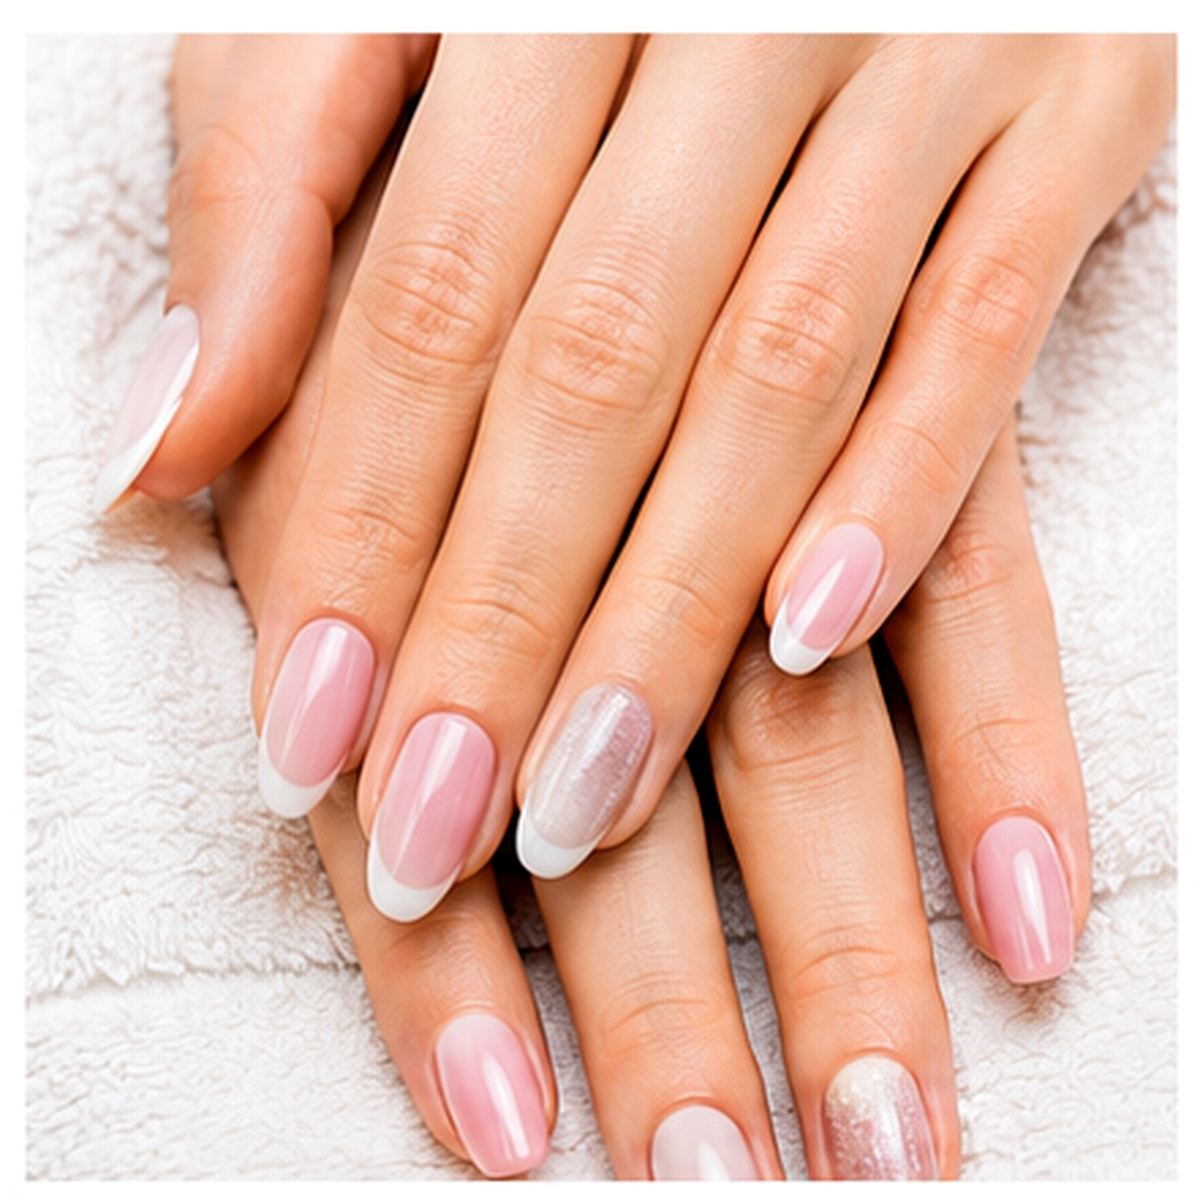
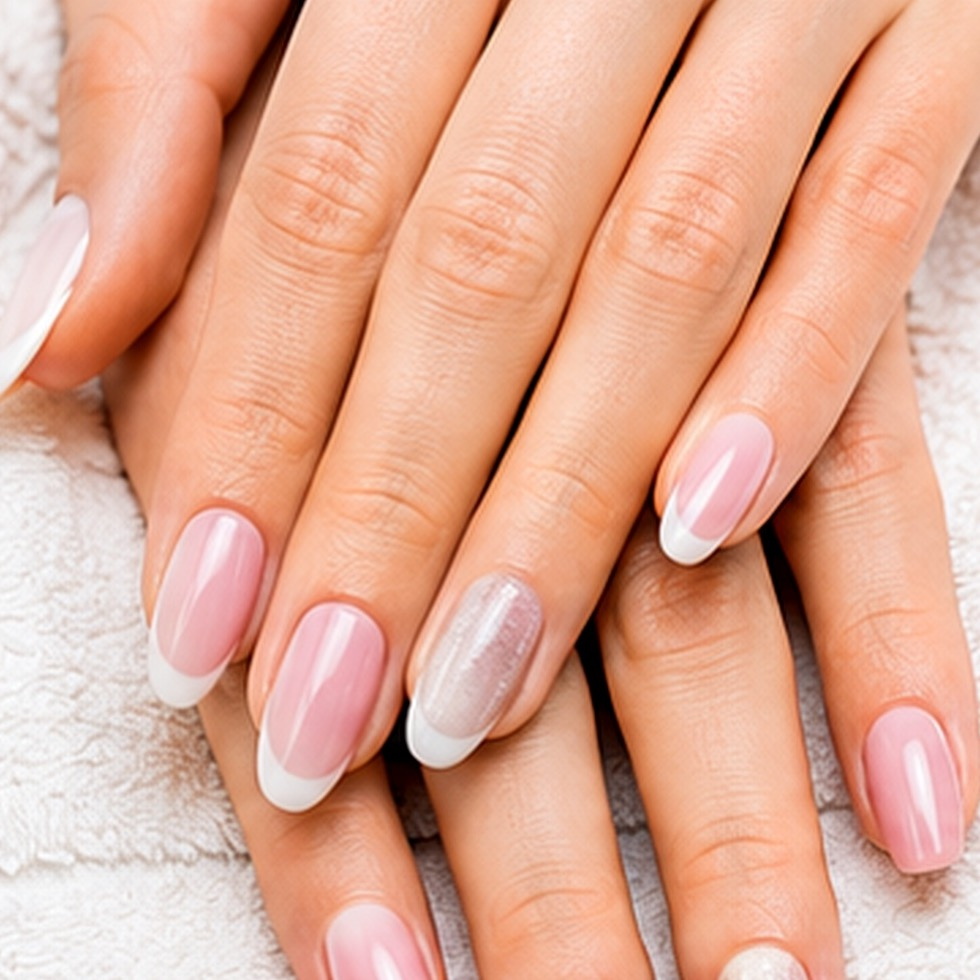
Fix price list image sizing

diff --git a/css/style.css b/css/style.css
@@ -1335,13 +1335,14 @@ body.rechtliche-seite main {
 }
 
 .preis-table-three {
-    grid-template-columns: minmax(120px, 1fr) 72px 72px;
-    gap: 10px 14px;
+    grid-template-columns: minmax(112px, 1fr) 100px 78px;
+    gap: 10px 12px;
 }
 
 .preis-table strong {
     font-family: Impact, "Arial Narrow", Arial, sans-serif;
-    font-size: 0.62em;
+    font-size: 0.64rem;
+    line-height: 1.1;
     text-align: center;
     text-transform: uppercase;
 }
@@ -1373,8 +1374,8 @@ body.rechtliche-seite main {
 
 .preis-with-circle {
     display: grid;
-    grid-template-columns: minmax(0, 1fr) clamp(96px, 11vw, 124px);
-    gap: 18px 22px;
+    grid-template-columns: minmax(0, 1fr) clamp(58px, 6vw, 82px);
+    gap: 16px 18px;
     align-items: center;
     min-height: 0;
 }
@@ -1400,7 +1401,8 @@ body.rechtliche-seite main {
     border-radius: 50%;
     border: 0;
     background: transparent;
-    box-shadow: 0 8px 20px rgba(63, 34, 16, 0.18);
+    box-shadow: 0 6px 16px rgba(63, 34, 16, 0.16);
+    clip-path: circle(47% at 50% 50%);
 }
 
 .preis-circle-acryl {
@@ -1589,13 +1591,13 @@ body.rechtliche-seite main {
     }
 
     .preis-table-three {
-        grid-template-columns: minmax(0, 1fr) 58px 58px;
+        grid-template-columns: minmax(0, 1fr) 88px 74px;
         gap: 10px 10px;
-        font-size: 0.98rem;
+        font-size: 0.92rem;
     }
 
     .preis-table strong {
-        font-size: 0.68rem;
+        font-size: 0.58rem;
     }
 
     .preis-list {
@@ -1619,7 +1621,7 @@ body.rechtliche-seite main {
 
     .preis-circle {
         grid-row: auto;
-        width: min(58vw, 180px);
+        width: min(34vw, 120px);
         justify-self: center;
     }
 

diff --git a/Preisliste.html b/Preisliste.html
@@ -30,8 +30,8 @@
                     <h3>Pulver-Acryl-System</h3>
                     <div class="preis-table preis-table-three">
                         <span></span>
-                        <strong>NM</strong>
-                        <strong>AF</strong>
+                        <strong>Neumodellage</strong>
+                        <strong>Auffüllen</strong>
                         <span>Natur</span><b>35€</b><b>30€</b>
                         <span>Farbe</span><b>42€</b><b>38€</b>
                         <span>Babyboomer</span><b>42€</b><b>38€</b>
@@ -44,8 +44,8 @@
                     <h3>UV-Gel-System</h3>
                     <div class="preis-table preis-table-three">
                         <span></span>
-                        <strong>NM</strong>
-                        <strong>AF</strong>
+                        <strong>Neumodellage</strong>
+                        <strong>Auffüllen</strong>
                         <span>Natur</span><b>37€</b><b>35€</b>
                         <span>Farbe / French-Look</span><b>47€</b><b>45€</b>
                     </div>